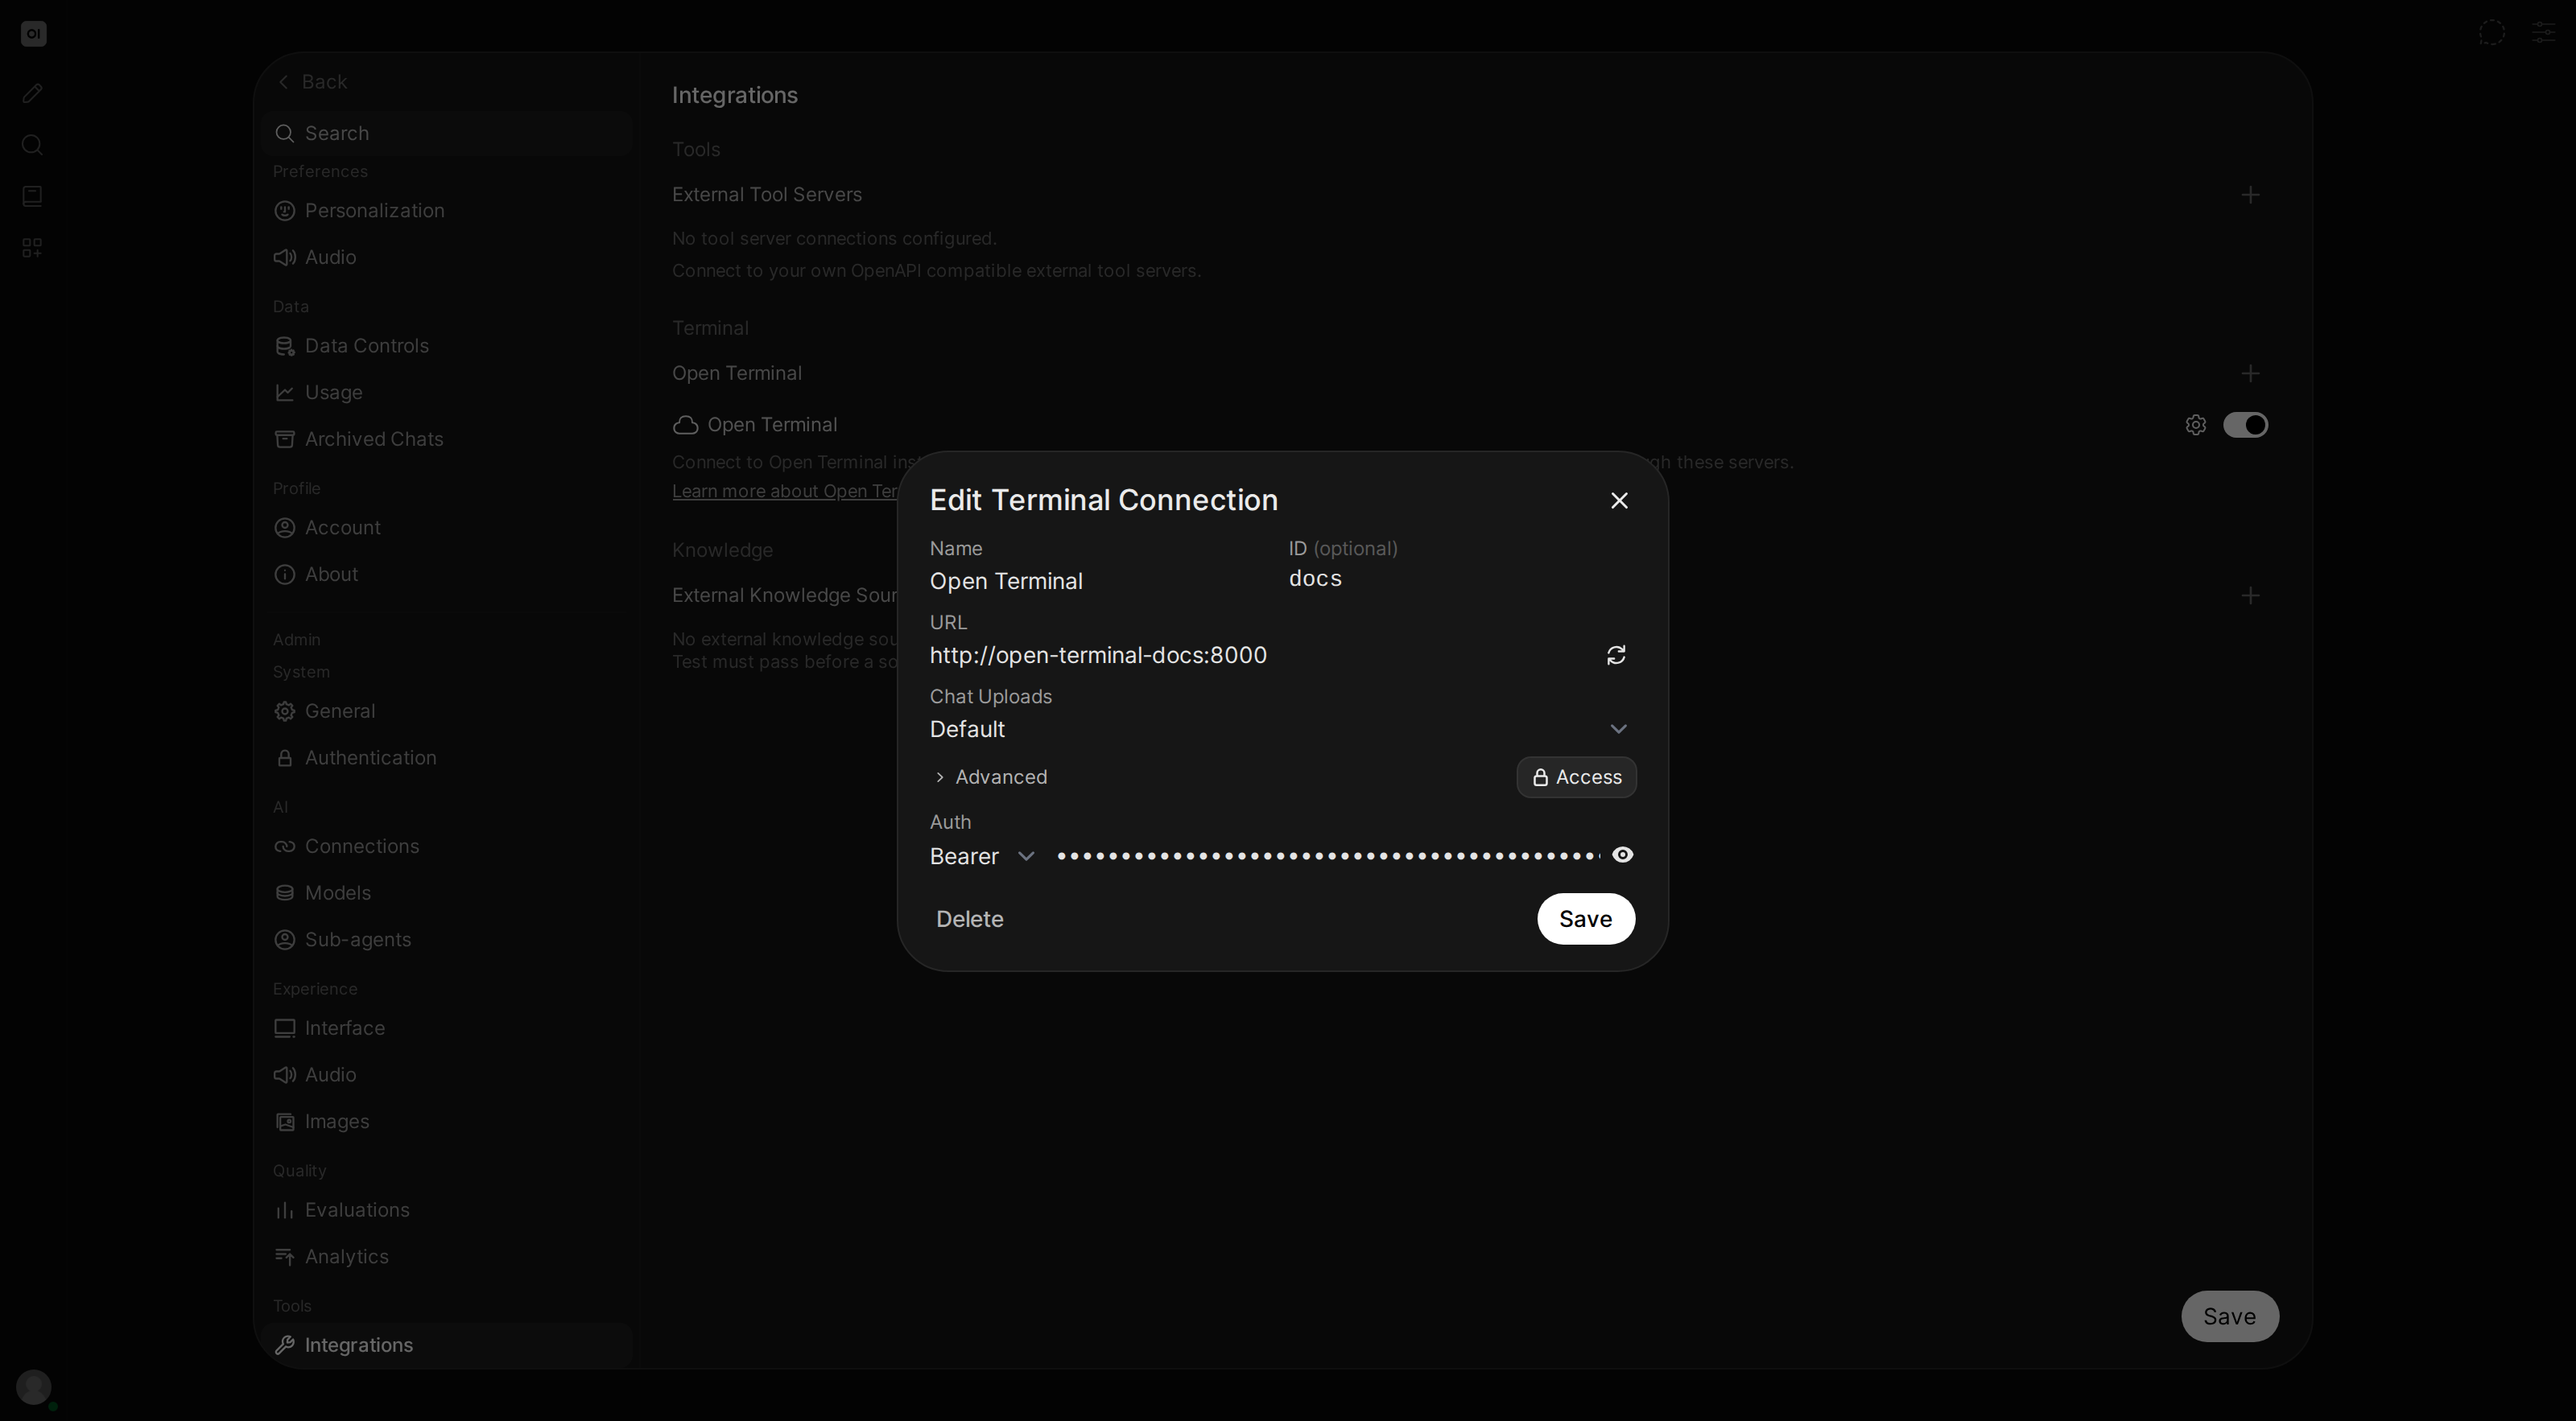
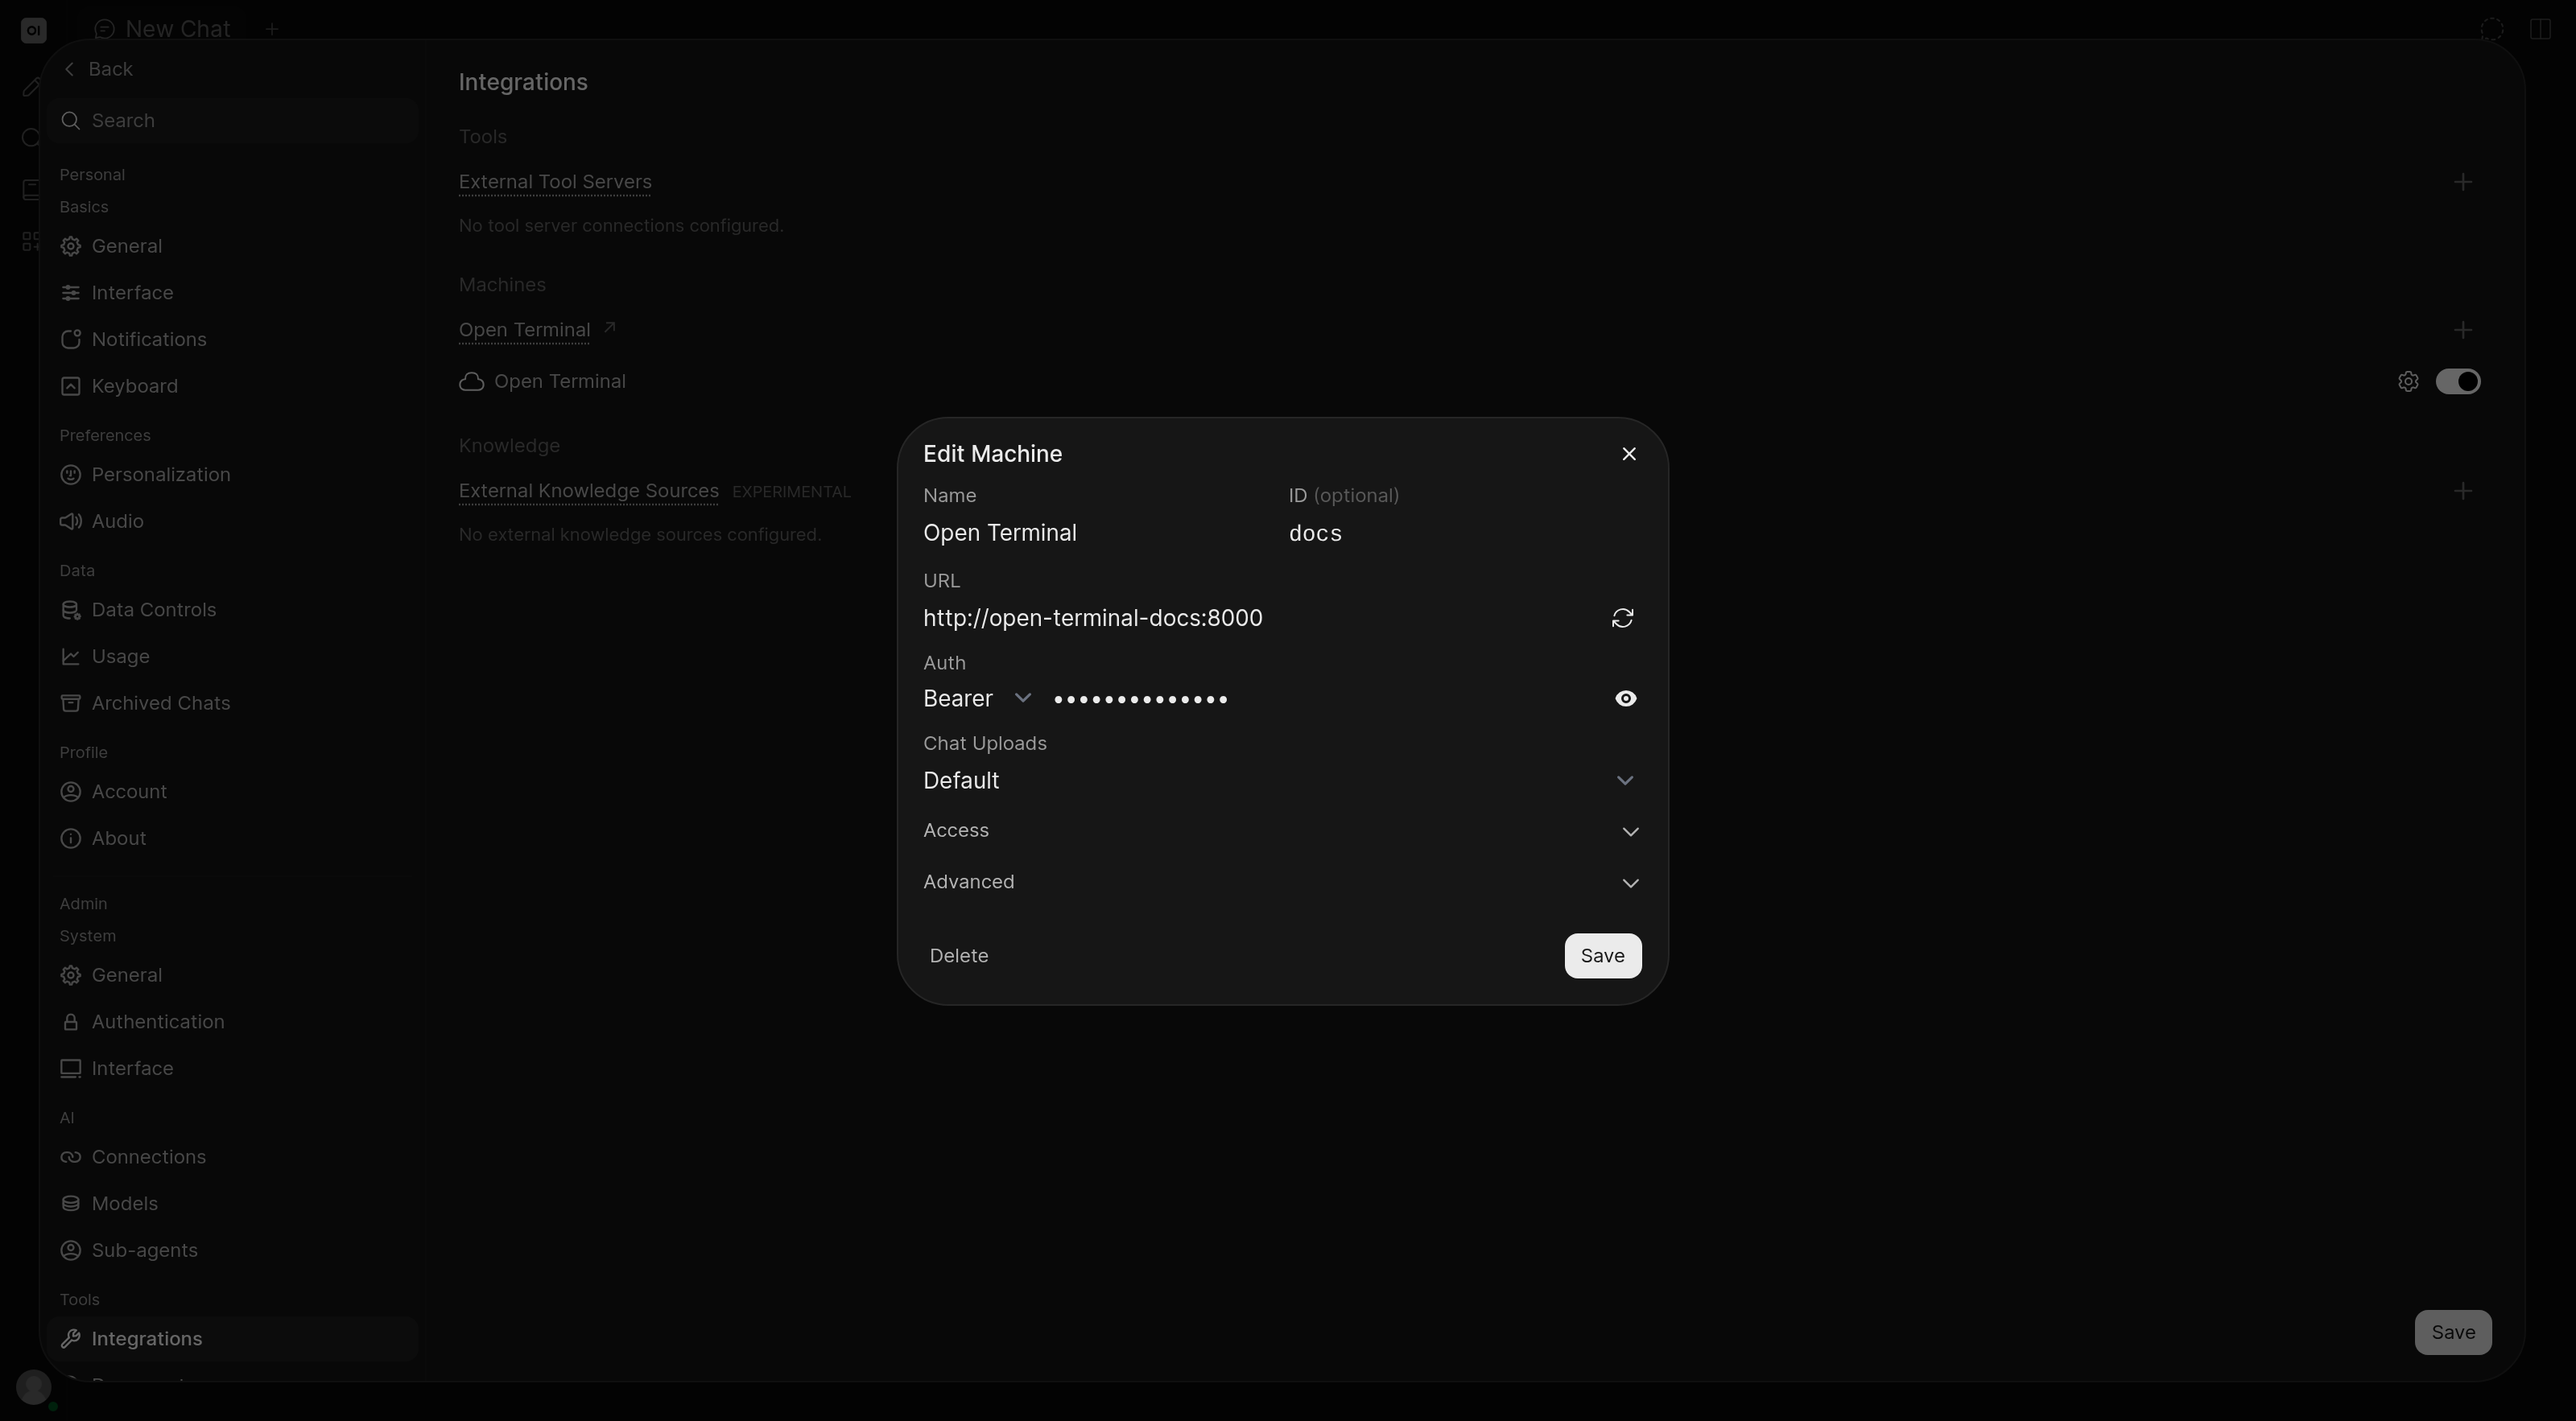
Retake the masked API key screenshot on the Open Terminal security page
The screenshot now shows the Edit Machine dialog with the key masked, matching the current app.

diff --git a/docs/features/open-terminal/advanced/security.md b/docs/features/open-terminal/advanced/security.md
@@ -76,7 +76,7 @@ Add the machine as an admin. The API key stays hidden on the server, requests go
 
 A machine a user adds in Tether is listed under **Your devices** and is reached through that user's own computer, see [Bring Your Own Models and Tools](/ecosystem/tether#bring-your-own-models-and-tools).
 
-![The Open Terminal connection in admin settings with the API key masked](/images/open-terminal-connection-masked-key.png)
+![Editing a machine in admin settings with its API key masked](/images/open-terminal-connection-masked-key.png)
 
 ---
 
